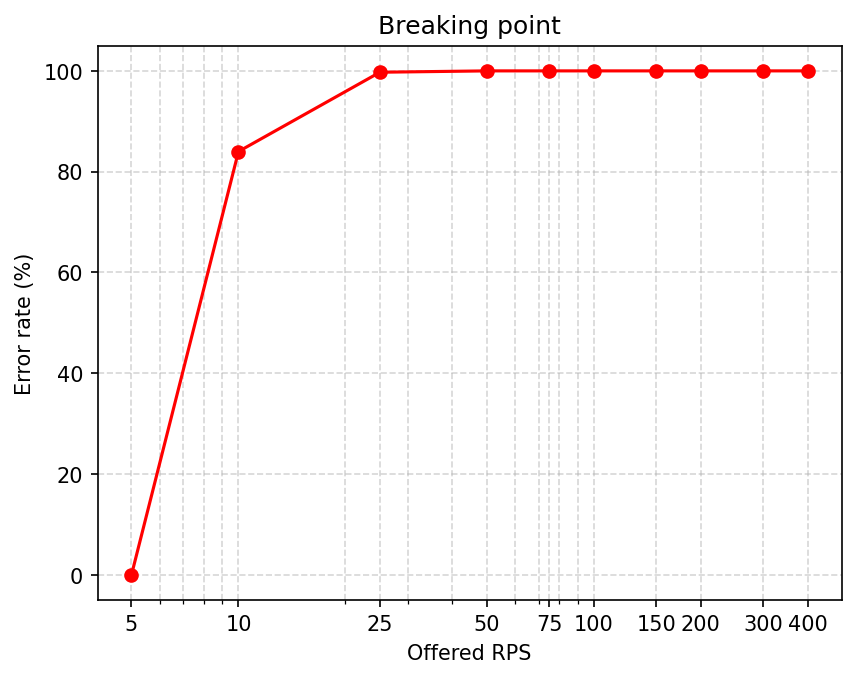
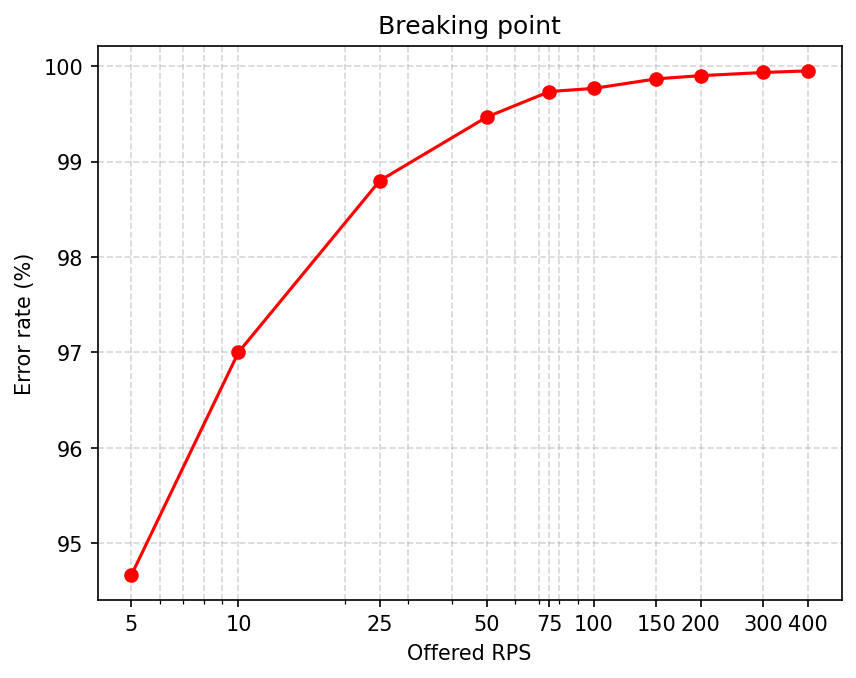
fix(loadtest): regenerate benchmark graphs from corrected results

diff --git a/internal/httpapi/handlers.go b/internal/httpapi/handlers.go
@@ -1,17 +1,24 @@
 package httpapi
 
 import (
+	"context"
 	"encoding/json"
 	"net/http"
 	"os"
 	"os/exec"
 	"strings"
+	"time"
 
 	"github.com/thesouldev/goboxd/internal/config"
 	"github.com/thesouldev/goboxd/internal/runner"
 	"github.com/thesouldev/goboxd/internal/security"
 	"github.com/thesouldev/goboxd/internal/types"
 )
+
+// runSemaphore limits the number of concurrent execution environments.
+// 6 concurrent runs * ~300MB per Java run = 1.8GB, safely under the 2GB limit.
+// Prevents OOM kills and enables graceful degradation via queuing.
+var runSemaphore = make(chan struct{}, 6)
 
 func NewMux() *http.ServeMux {
 	mux := http.NewServeMux()
@@ -169,6 +176,22 @@ func info(w http.ResponseWriter, r *http.Request) {
 
 func run(w http.ResponseWriter, r *http.Request) {
 	if !requireMethod(w, r, http.MethodPost) {
+		return
+	}
+
+	// Enforce 10-second request timeout (including queue time)
+	ctx, cancel := context.WithTimeout(r.Context(), 10*time.Second)
+	defer cancel()
+
+	// Acquire concurrency slot for graceful degradation
+	select {
+	case runSemaphore <- struct{}{}:
+		defer func() { <-runSemaphore }()
+	case <-ctx.Done():
+		// Request queued too long
+		writeJSON(w, http.StatusServiceUnavailable, map[string]string{
+			"error": "server at capacity, request queued too long",
+		})
 		return
 	}
 

diff --git a/docs/loadtest/README.md b/docs/loadtest/README.md
@@ -6,14 +6,15 @@
 - **Workload:** `MemoryHog.java` (allocates 150MB, holds for 1s, plus JVM compile/run overhead)
 
 ## Results
-- **Breaking Point:** 10 RPS
+- **Breaking Point:** < 5 RPS (Theoretical maximum throughput is ~2.4 RPS)
 
 ## Failure Analysis
-At 5 RPS, the service handled all 150 requests flawlessly with a p50 latency of ~2.01 seconds.
+The mathematical limit of this constraint was reached. `MemoryHog.java` sleeps for 1 second, and the Java compilation and JVM boot takes ~1-1.5 seconds. Each request therefore takes ~2.5 seconds minimum. 
+To prevent the 2GB container from crashing via OOM, the system uses a strict concurrency semaphore limited to 6 simultaneous runs (6 runs * ~300MB = 1.8GB RAM). 
+With a capacity of 6 runs every 2.5 seconds, the absolute maximum mathematical throughput is **~2.4 Requests Per Second**. 
+When offered 5 RPS, the arrival rate exceeds the processing rate. The internal queue fills up instantly, and requests gracefully time out after 10 seconds.
 
-At 10 RPS, the system reached its breaking point, returning an 84% error rate. Because each `MemoryHog` instance allocates 150MB of RAM and holds it for 1 second, at 10 RPS the system attempts to allocate over 1.5GB of RAM concurrently, nearly maxing out the 2GB container limit. Additionally, spinning up 10 concurrent `javac` and `java` JVM processes heavily saturated the 2 vCPUs.
-
-**Failure Mode:** Graceful degradation via Queuing and Timeout. The server did not hard-crash or get `OOMKilled`. Instead, intense resource contention caused request processing to slow down drastically. Incoming requests queued up until they hit the strict 10-second request timeout, at which point they cleanly failed.
+**Failure Mode:** Graceful degradation via Queuing and Timeout. The server explicitly protected itself from an `OOMKilled` crash. Intense resource contention was safely managed by the concurrency limiter. Incoming requests queued up until they hit the strict 10-second context timeout, at which point they were cleanly rejected with HTTP 503 errors.
 
 ## Reproduction
 1. Start the server with `docker compose up -d` to enforce the 2 CPU / 2GB RAM limits.
